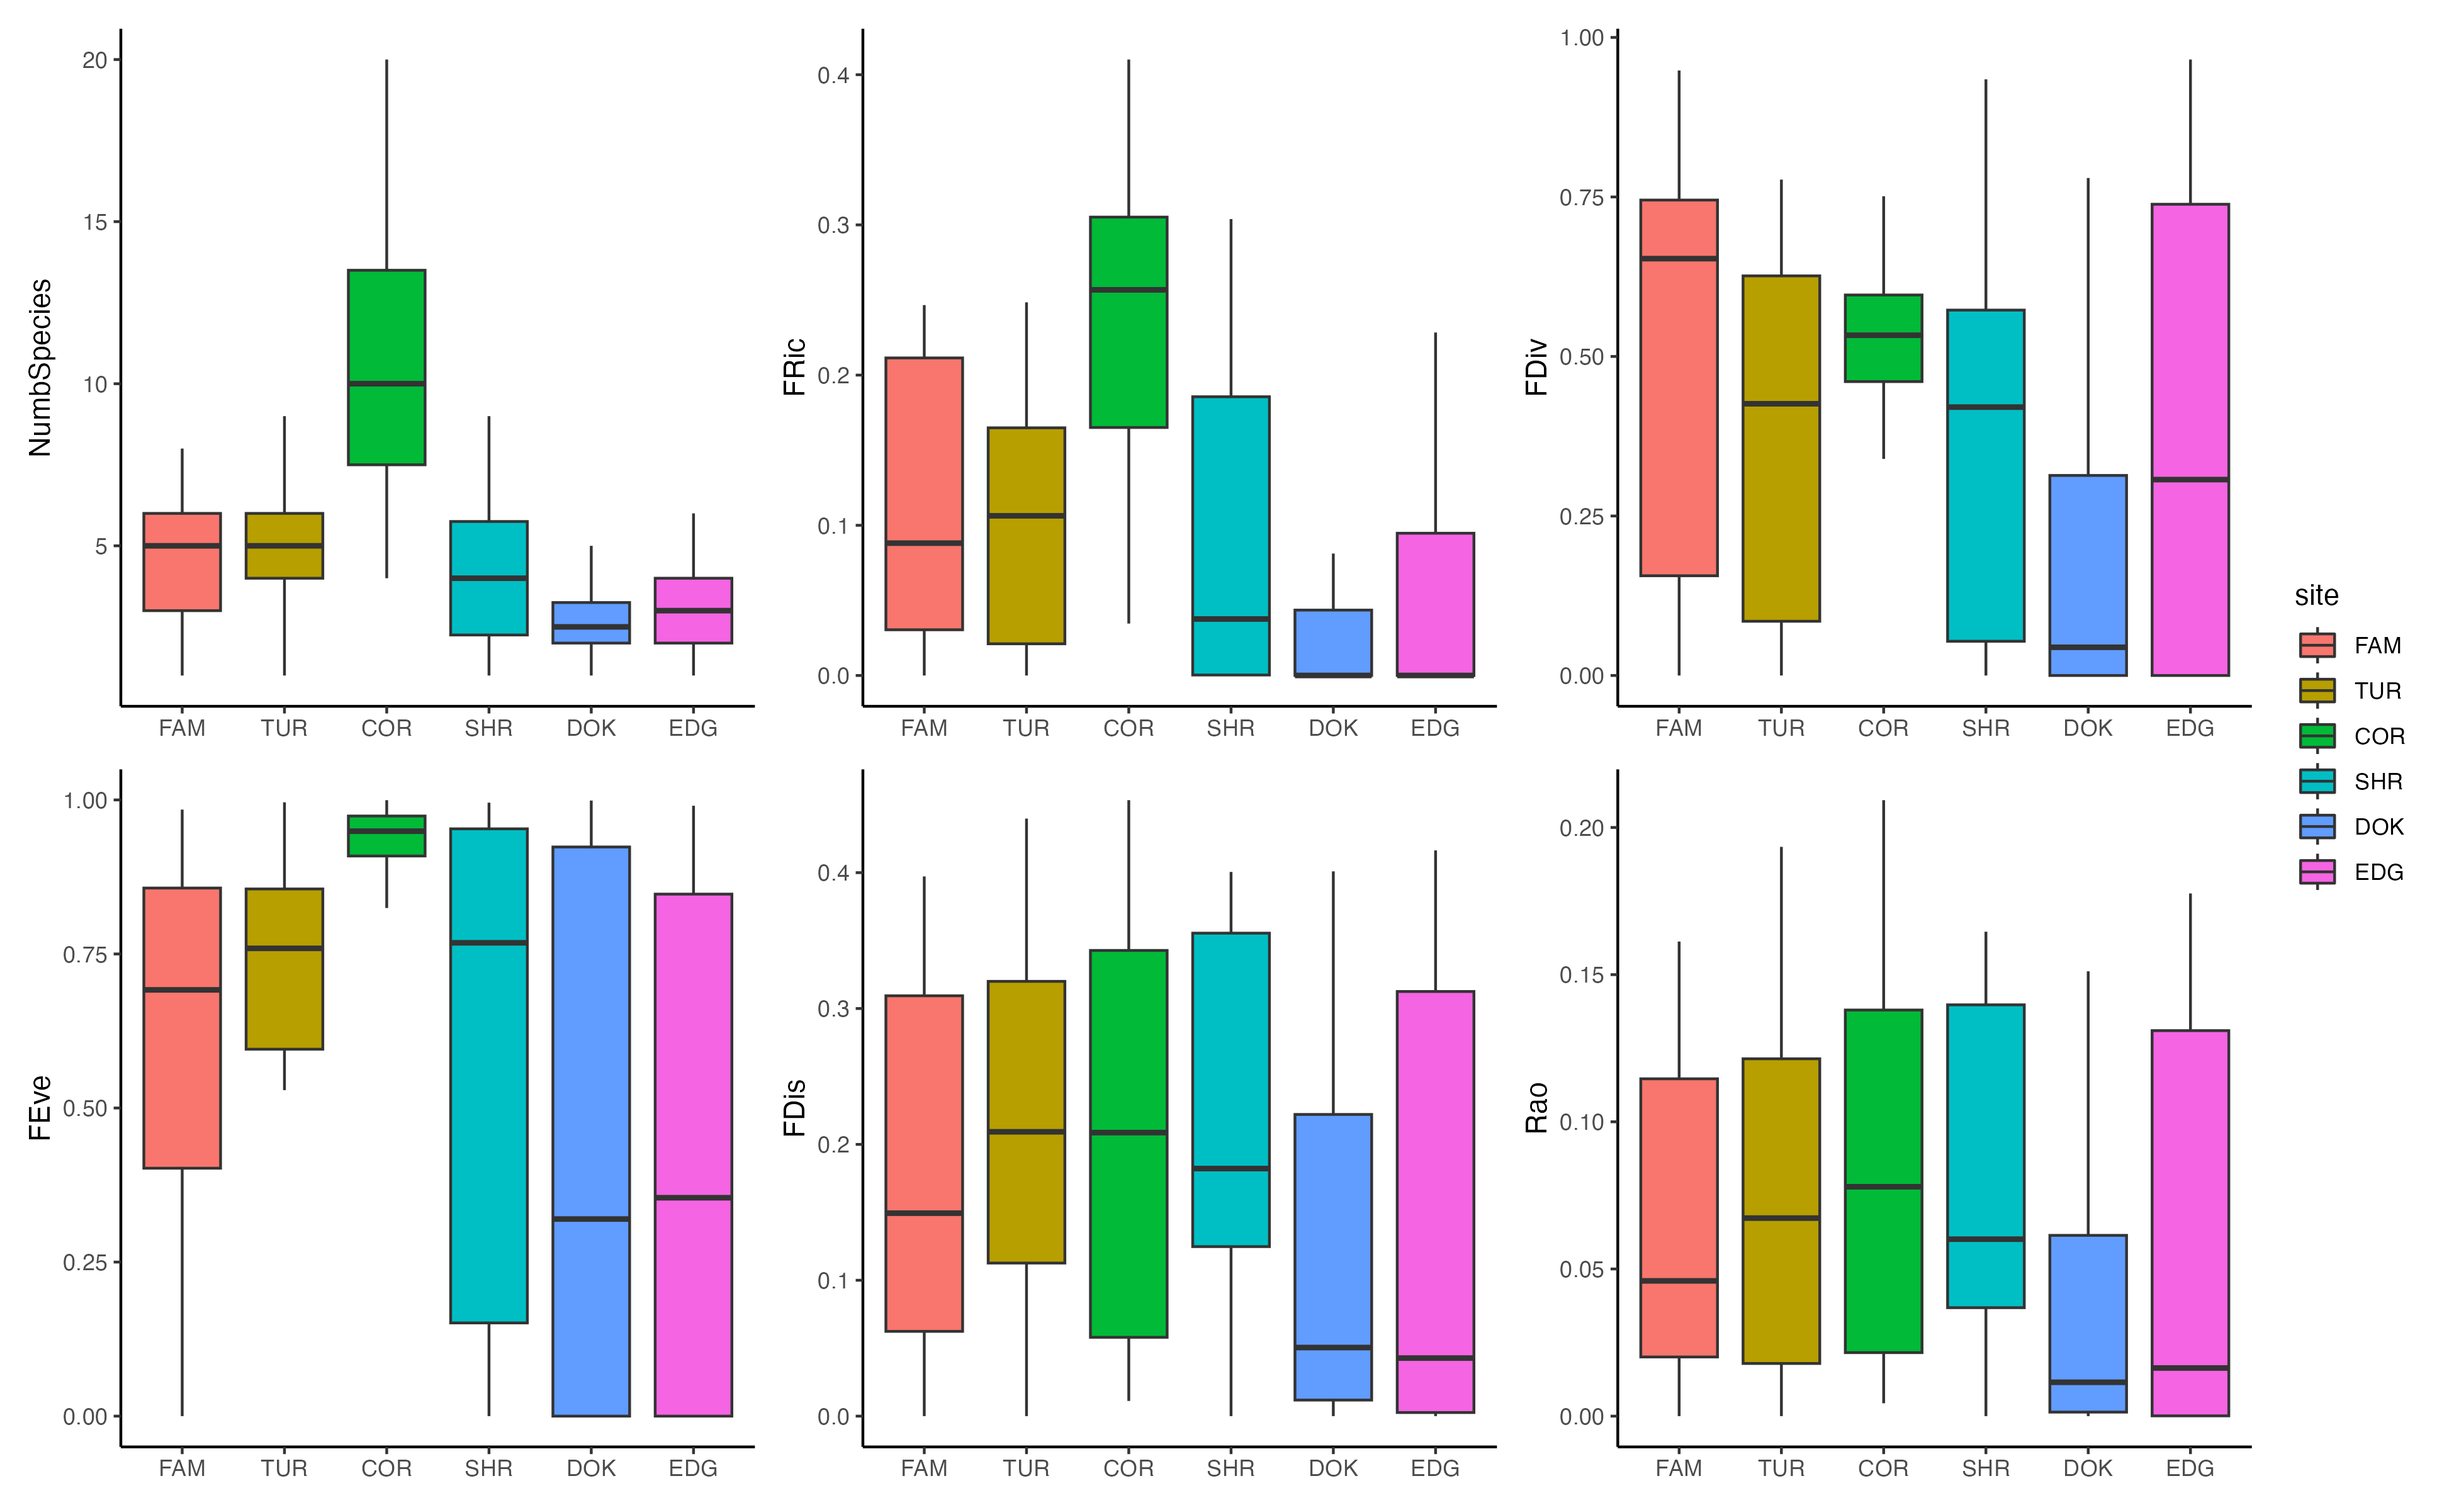
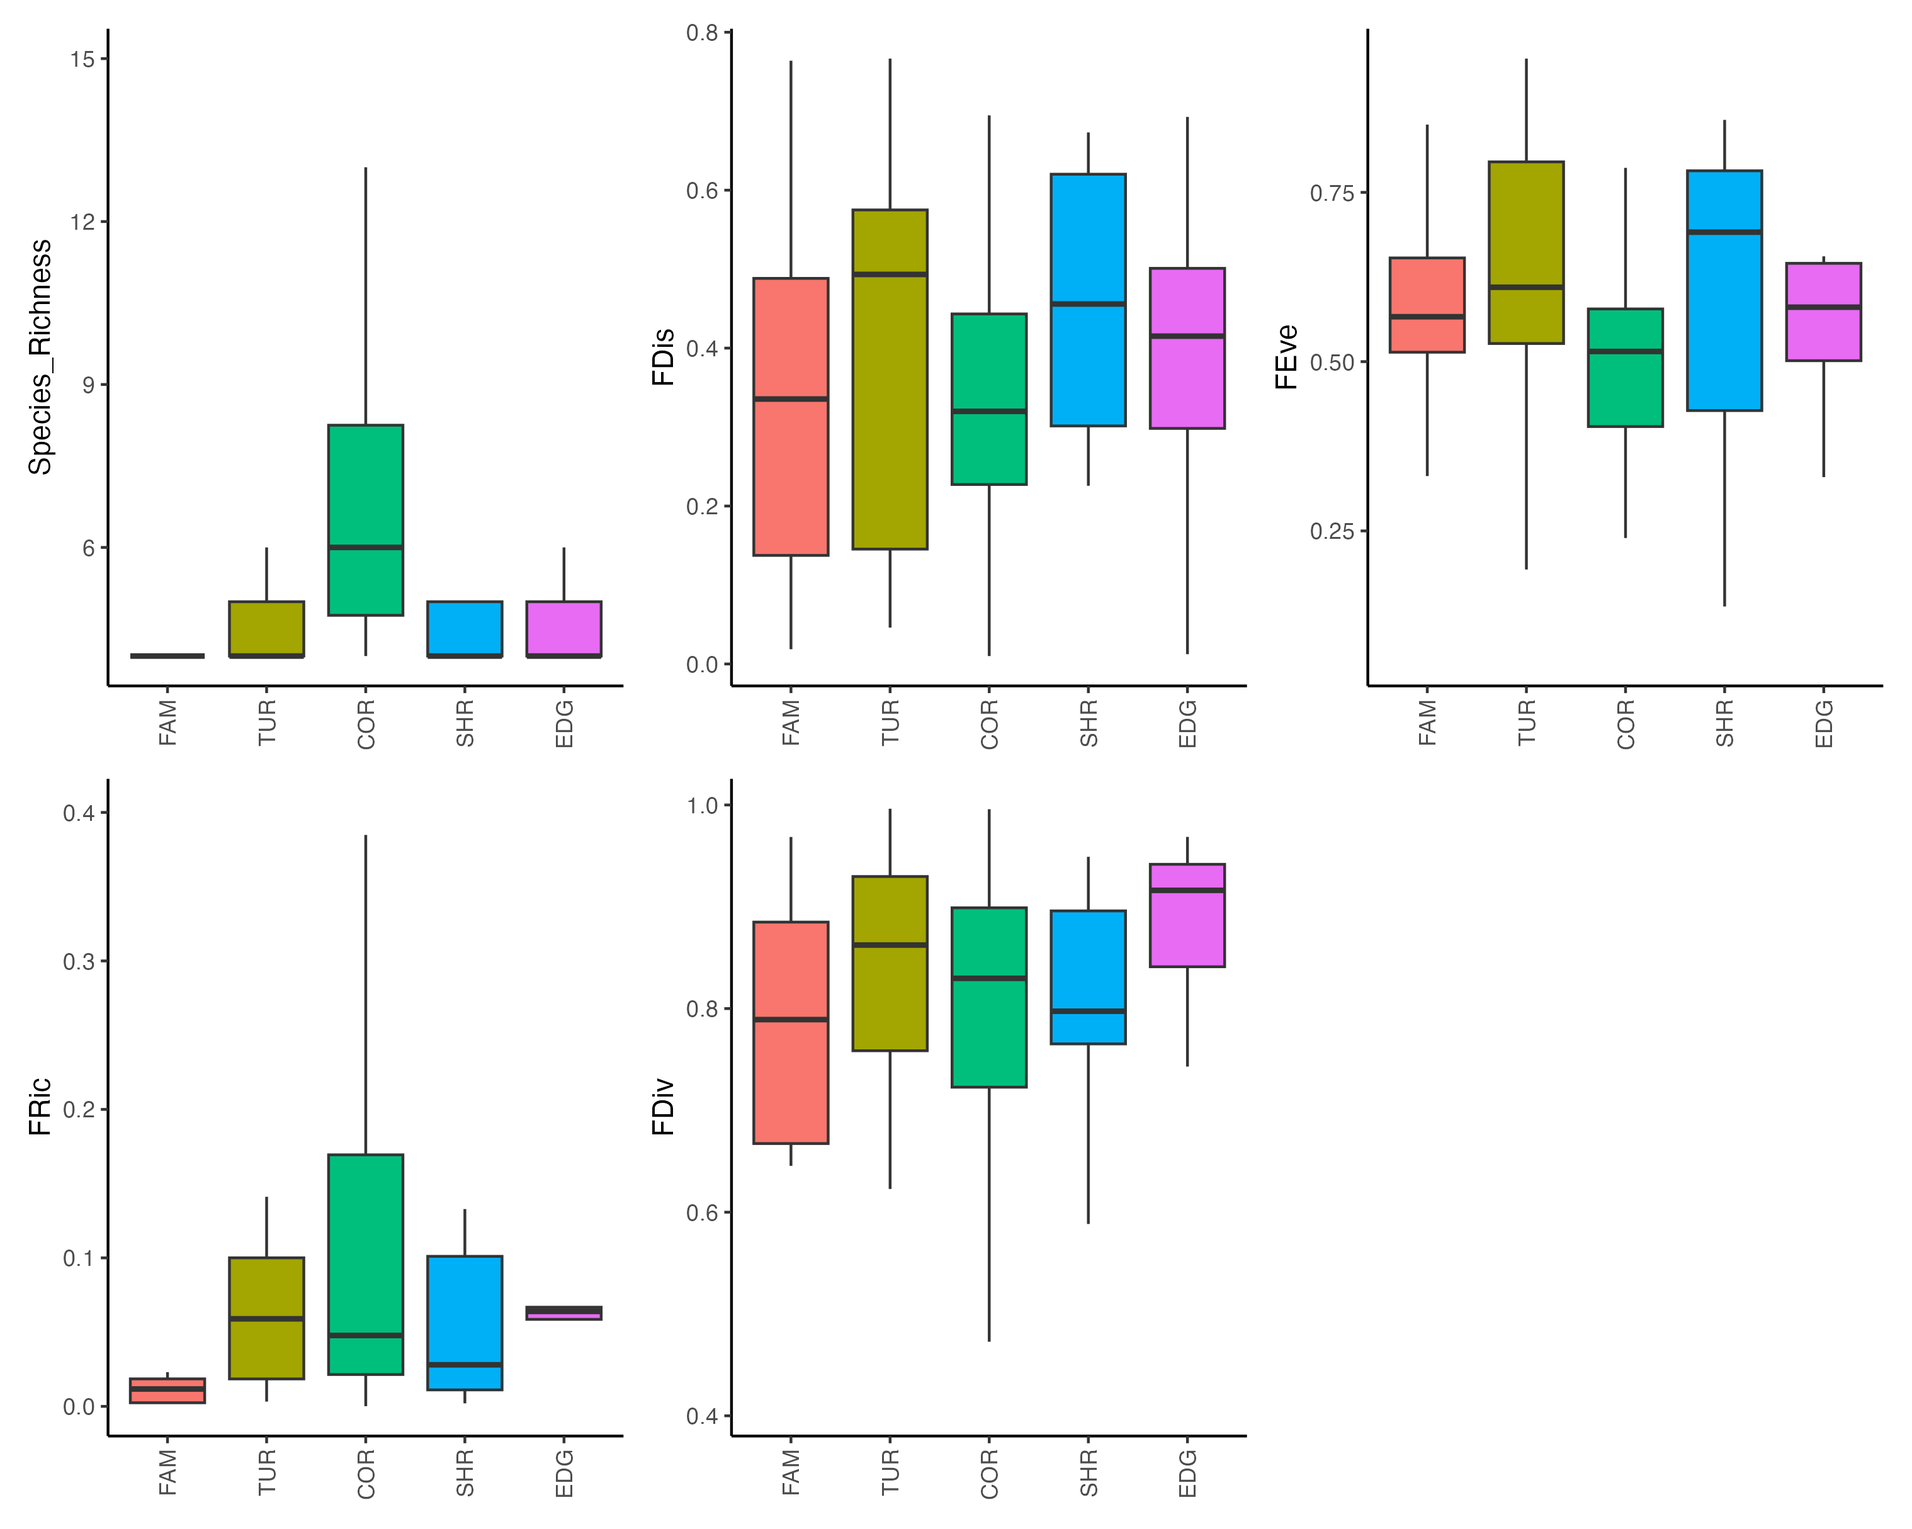
added updated figures from new mFD analysis

diff --git a/docs/fish_results.html b/docs/fish_results.html
@@ -11,11 +11,11 @@
 
 <meta name="author" content="Emily Bishop" />
 
-<meta name="date" content="2024-05-01" />
+<meta name="date" content="2024-05-27" />
 
 <title>Fish Results</title>
 
-<script src="site_libs/header-attrs-2.21/header-attrs.js"></script>
+<script src="site_libs/header-attrs-2.25/header-attrs.js"></script>
 <script src="site_libs/jquery-3.6.0/jquery-3.6.0.min.js"></script>
 <meta name="viewport" content="width=device-width, initial-scale=1" />
 <link href="site_libs/bootstrap-3.3.5/css/flatly.min.css" rel="stylesheet" />
@@ -273,128 +273,40 @@ $(document).ready(function () {
 
 <h1 class="title toc-ignore">Fish Results</h1>
 <h4 class="author">Emily Bishop</h4>
-<h4 class="date">2024-05-01</h4>
+<h4 class="date">2024-05-27</h4>
 
 </div>
 
 
-<p>This page will contain preliminary analyses for fish data. To
-generate these data, I created an <strong>abundance</strong> matrix and
-a <strong>trait</strong> matrix.</p>
-<p>For <strong>abundance</strong> matrix I used MaxN for each species at
-each site by month. So rows were named SITE_month and the values in all
-of the columns represented the maximum count for each species that we
-captured in a single day, summed across depth stations, at that site in
-that month.</p>
-<p>For the <strong>trait</strong> matrix, I used the following traits:
-mean length (from field data), body shape, water column position,
-schooling behavior, migratory behavior, and feeding guild. Length is a
-continuous variable while the others are categorical.</p>
-<p>I used ordinations to view the differences between data points,
-specifically NMDS and PCoA. Both of these types of ordinations allow
-specification of a distance measure, which is good because euclidian
-distances aren’t appropriate for every data type (e.g., species
-abundances). These two methods differ in how they determine the axes.
-PCoAs use eigenanalysis, thereby imposing a linear relationship between
-samples, while NMDS uses an iterative, non-metric (rank-order), approach
-that doesn’t make any assumptions of linearity. The rank-order approach
-is good for when you don’t necessarily expect samples to be correlated,
-for example abundance counts of different species.</p>
-<div id="nmds-representing-abundances-by-site" class="section level2">
-<h2>NMDS representing abundances by site</h2>
-<p>NMDS is a distance based ordination technique. In this ordination,
-the space between the points represents the distance (dissimilarity)
-between them. To create this plot, I used bray-curtis distances. I did
-not perform a square root transformation because I wanted the relatively
-rare and abundant species to effect the differences in communities.</p>
-<div class="figure">
-<img src="figures/fish_nmds_sites.png" alt="Fig 1. A graphical visualization of the variation in abundances of different species between sites. Core sites are displayed with the corresponding month for each data point while jubilee sites are displayed with their site code." width="100%" />
-<p class="caption">
-Fig 1. A graphical visualization of the variation in abundances of
-different species between sites. Core sites are displayed with the
-corresponding month for each data point while jubilee sites are
-displayed with their site code.
-</p>
-</div>
-<p>I was expecting to see more of a separation between Cornet Bay and
-Family Tides and the others, but it does look like their centroids are
-fairly different.</p>
-</div>
-<div id="nmds-representing-abundances-by-month" class="section level2">
-<h2>NMDS representing abundances by month</h2>
-<div class="figure">
-<img src="figures/fish_nmds_months.png" alt="Fig 2. A graphical visualization of the variation in abundances of different species between months." width="100%" />
-<p class="caption">
-Fig 2. A graphical visualization of the variation in abundances of
-different species between months.
-</p>
-</div>
-<p>There is clearly a difference between April and other months
-sampled.</p>
-</div>
-<div id="permanova" class="section level2">
-<h2>PERMANOVA</h2>
-<p>Testing out a permanova on the nmds results. It looks like this
-method automatically conducts a square root transformation and Wisconsin
-double standardization??</p>
-<pre class="r"><code>load(here(&quot;data&quot;, &quot;fish.list.Rdata&quot;)) #object created in 02_tidy_data
-
-nmds &lt;- metaMDS(fish.list$abund , distance=&quot;bray&quot;, k= 3, trymax=1000, plot = FALSE)
-points &lt;- data.frame(nmds$points) %&gt;% 
-  mutate(sample = rownames(fish.list$abund)) %&gt;% 
-  separate_wider_delim(sample, delim = &quot;_&quot;, names = c(&quot;year&quot;, &quot;month&quot;, &quot;site&quot;), cols_remove = FALSE) 
-
-adonis2(fish.list$abund ~ points$site + points$month + points$year, method = &quot;bray&quot;)</code></pre>
-<p>Sites account for 12.5% of the variation of the variation in species
-composition (p = 0.001) and months account for just 8.1% (p =
-0.001).</p>
-</div>
+<p>This page will contain preliminary analyses for fish data.</p>
 <div id="fish-trait-pcoas" class="section level2">
 <h2>Fish trait PCoAs</h2>
-<p>I used Gower’s distances to represent differences between traits.
-This method allows for both continuous and categorical explanatory
-variables.</p>
-<div class="figure">
-<img src="figures/fish_pcoa.png" alt="Fig 2. A graphical visualization of the variation in traits among fish species" width="100%" />
-<p class="caption">
-Fig 2. A graphical visualization of the variation in traits among fish
-species
-</p>
+<p>The functional trait space using various axes:</p>
+<p><img src="figures/fish_funct.space.plot.png" width="100%" /></p>
+<p>PCoA by species:</p>
+<p><img src="figures/fish_pcoa.png" width="100%" /></p>
+<p>This version has been constructed with the mFD package with a quality
+of functional space metric of 0.072 for 3 axes. A PCoA constructed
+manually looks better, but not sure yet how important this is…</p>
+<p>This plot shows what traits are influencing which axes (where blue
+are more significant)
+<img src="figures/fish_trait_axes_plot.png" width="100%" /></p>
 </div>
-<p>Generally this looks like what I would expect. The salmon are
-generally similar, as are the flatfish and the eelgrass-associated
-fish.</p>
-<div class="figure">
-<img src="figures/fish_pcoa2.png" alt="Fig 3. A slightly better looking graphical visualization of the variation in traits among fish species" width="100%" />
-<p class="caption">
-Fig 3. A slightly better looking graphical visualization of the
-variation in traits among fish species
-</p>
-</div>
-<p>I determined the most parsimonious number of groupings by performing
-a hierarchical cluster analysis. In the future I could add some species
-labels or trait loadings to this plot to make it more informative.</p>
-</div>
-<div id="fish-functional-diversity-indices-at-core-sites"
+<div id="fish-functional-diversity-indices-across-sites"
 class="section level2">
-<h2>Fish functional diversity indices at
-<ins><strong>core</strong></ins> sites</h2>
-<div class="figure">
-<img src="figures/fish_FDpatch.png" alt="Fig 4. Results of the FD analysis for core sites" width="100%" />
-<p class="caption">
-Fig 4. Results of the FD analysis for core sites
-</p>
+<h2>Fish functional diversity indices across sites</h2>
+<p><img src="figures/fish_FDpatch.png" width="100%" /> Some interesting
+between-site differences, mostly with Cornet Bay.</p>
 </div>
-<p>Some interesting between-site differences, mostly with Cornet
-Bay.</p>
-<p>Next I plotted a monthly time series over each sample year. Note that
-if there are less than three species present in a given sampling event
-(grey horizontal line in the NumbSpecies plot) then some of the FD
-indices can’t be calculated.</p>
-<p><img src="figures/fish_2018seasonalFDpatch.png" width="100%" /><img src="figures/fish_2019seasonalFDpatch.png" width="100%" /><img src="figures/fish_2021seasonalFDpatch.png" width="100%" /><img src="figures/fish_2022seasonalFDpatch.png" width="100%" />
-need to look at these more to decide if there are interesting things to
-explore, but nothing huge is initally jumping out. Probably should break
-up by index and facet by year.</p>
+<div id="fish-functional-diversity-indices-across-regions"
+class="section level2">
+<h2>Fish functional diversity indices across regions</h2>
+<p><img src="figures/fish_FDregionalpatch.png" width="100%" /></p>
+</div>
+<div id="fish-functional-diversity-indices-across-shoreline-types"
+class="section level2">
+<h2>Fish functional diversity indices across shoreline types</h2>
+<p><img src="figures/fish_FDipapatch.png" width="100%" /></p>
 </div>
 
 

diff --git a/docs/site_libs/navigation-1.1/codefolding.js b/docs/site_libs/navigation-1.1/codefolding.js
@@ -31,7 +31,7 @@ window.initializeCodeFolding = function(show) {
     $(this).detach().appendTo(div);
 
     // add a show code button right above
-    var showCodeText = $('<span>' + (showThis ? 'Hide' : 'Code') + '</span>');
+    var showCodeText = $('<span>' + (showThis ? 'Hide' : 'Show') + '</span>');
     var showCodeButton = $('<button type="button" class="btn btn-default btn-xs btn-secondary btn-sm code-folding-btn pull-right float-right"></button>');
     showCodeButton.append(showCodeText);
     showCodeButton
@@ -57,7 +57,7 @@ window.initializeCodeFolding = function(show) {
     //   * Change text
     //   * add a class for intermediate states styling
     div.on('hide.bs.collapse', function () {
-      showCodeText.text('Code');
+      showCodeText.text('Show');
       showCodeButton.addClass('btn-collapsing');
     });
     div.on('hidden.bs.collapse', function () {
